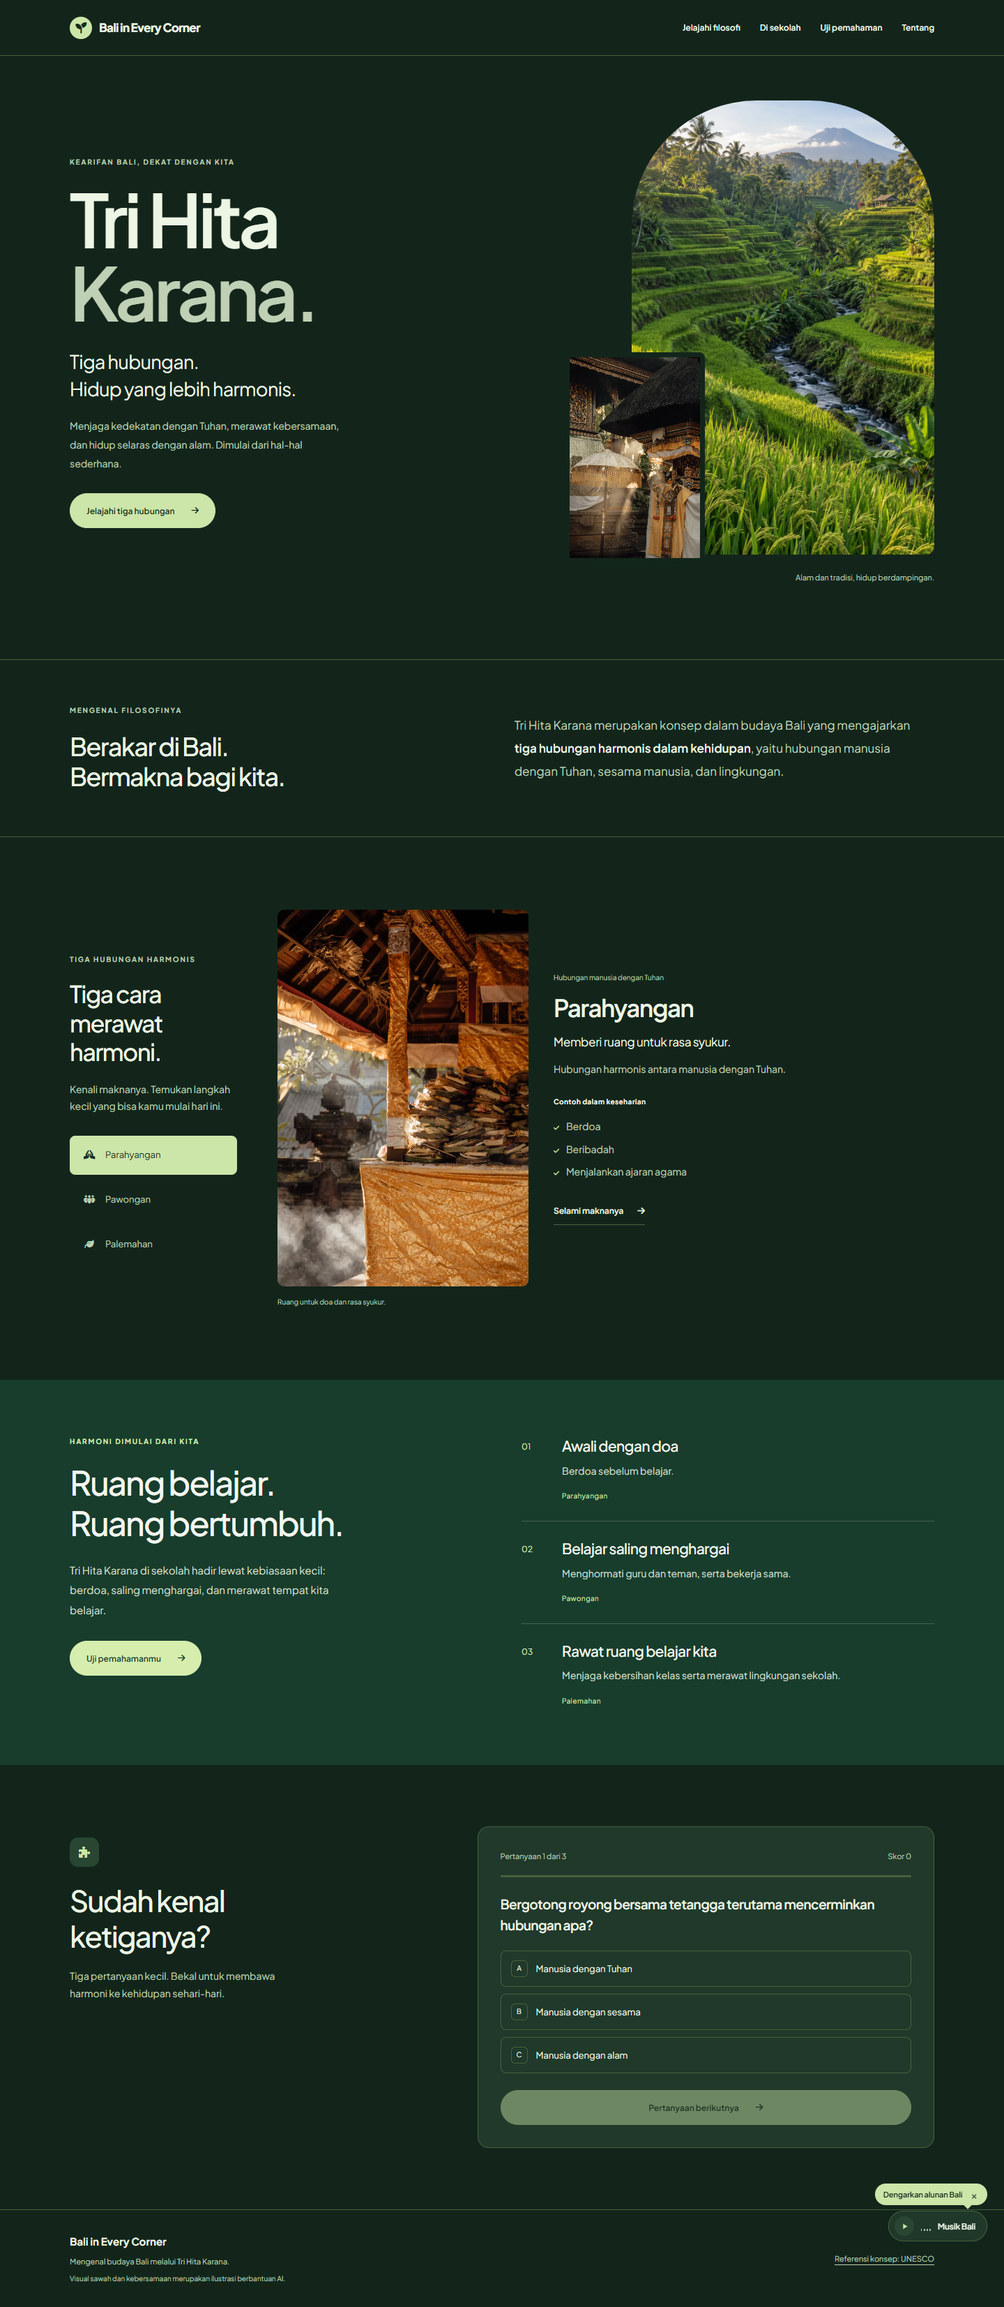
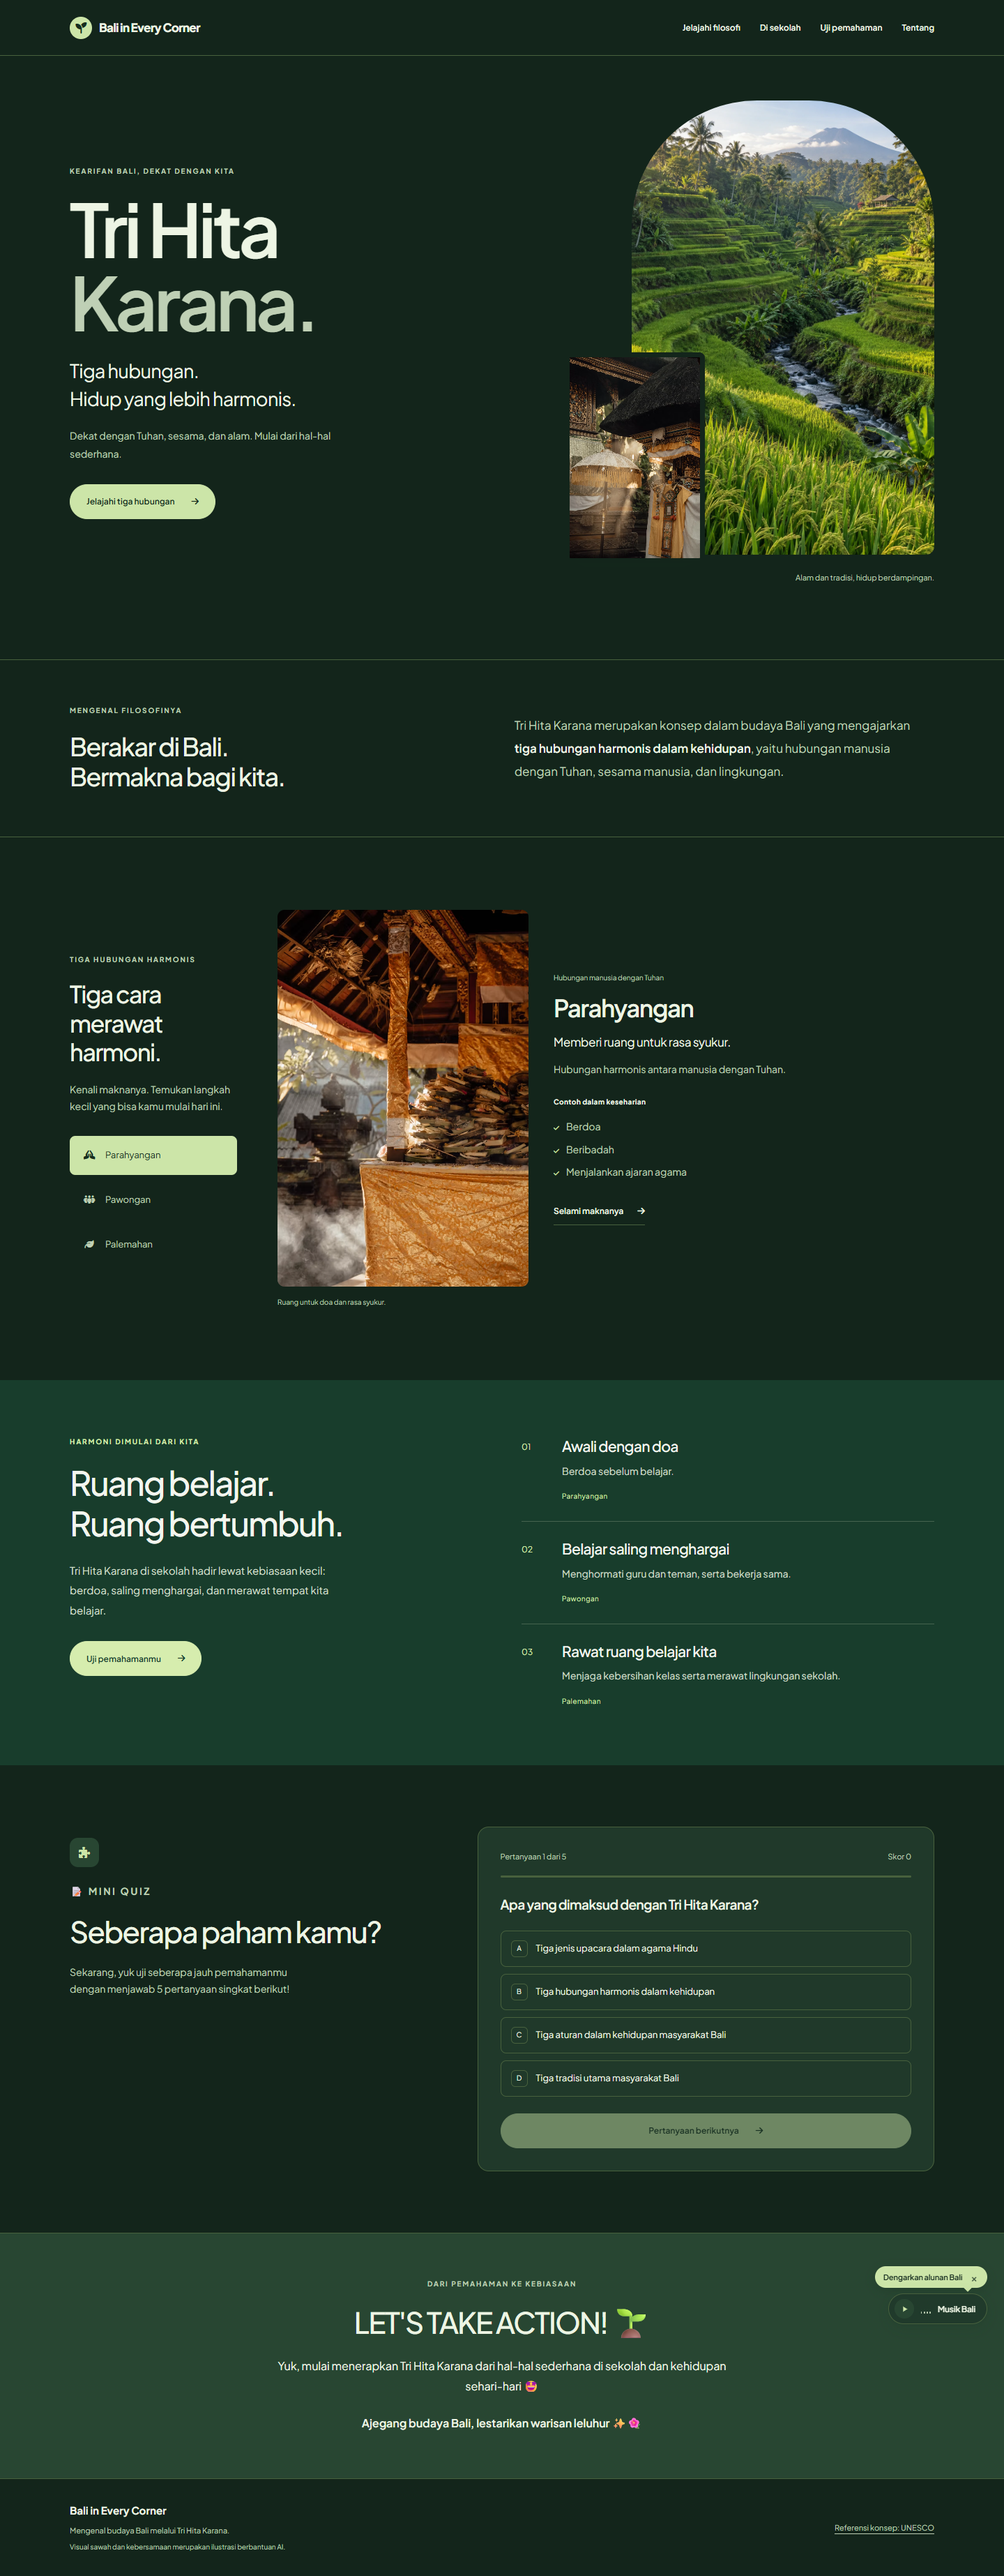
feat: apply editorial mobile design and five-question school quiz

diff --git a/js/app.js b/js/app.js
@@ -9,10 +9,62 @@
    {name:'Palemahan',relation:'Hubungan manusia dengan lingkungan',title:'Palemahan',message:'Merawat alam, merawat kehidupan.',summary:'Hubungan harmonis antara manusia dengan lingkungan.',examples:['Menjaga kebersihan','Membuang sampah pada tempatnya','Merawat tanaman','Menjaga alam'],image:'assets/images/bali-portrait.webp',alt:'Ilustrasi AI sawah berundak dengan aliran air dan pepohonan di Bali',caption:'Alam yang dirawat, kehidupan yang terjaga.',position:'50% 55%',paragraphs:['Palemahan mengajak manusia menjaga hubungan yang harmonis dengan lingkungan. Alam mendukung kehidupan melalui air, pangan, udara, dan ruang untuk tumbuh.','Menghemat sumber daya serta merawat lingkungan dapat dimulai dari rumah. Kebiasaan kecil yang dilakukan bersama membantu menjaga keseimbangan.'],practice:'Bawa botol minum sendiri dan perhatikan satu kebiasaan yang bisa mengurangi pemborosan air hari ini.'}
   ],
   quiz:[
-   {question:'Bergotong royong bersama tetangga terutama mencerminkan hubungan apa?',options:['Manusia dengan Tuhan','Manusia dengan sesama','Manusia dengan alam'],correct:1,explanation:'Kerja sama antarmanusia mencerminkan Pawongan. Jika dilakukan untuk merawat lingkungan, kegiatan yang sama juga mendukung Palemahan.'},
-   {question:'Pilar apa yang menekankan hubungan spiritual manusia dengan Tuhan?',options:['Parahyangan','Pawongan','Palemahan'],correct:0,explanation:'Parahyangan berfokus pada hubungan manusia dengan Tuhan, termasuk melalui doa dan rasa syukur.'},
-   {question:'Kebiasaan mana yang paling langsung mencerminkan Palemahan?',options:['Mendengarkan cerita teman','Menghemat penggunaan air','Meluangkan waktu untuk berdoa'],correct:1,explanation:'Menggunakan air dengan bijak merupakan salah satu cara merawat lingkungan, sesuai nilai Palemahan.'}
-  ]
+  {
+    "question": "Apa yang dimaksud dengan Tri Hita Karana?",
+    "options": [
+      "Tiga jenis upacara dalam agama Hindu",
+      "Tiga hubungan harmonis dalam kehidupan",
+      "Tiga aturan dalam kehidupan masyarakat Bali",
+      "Tiga tradisi utama masyarakat Bali"
+    ],
+    "correct": 1,
+    "explanation": "Tri Hita Karana mengajarkan tiga hubungan harmonis: dengan Tuhan, sesama manusia, dan lingkungan."
+  },
+  {
+    "question": "Sikap menghormati dan membantu teman merupakan contoh penerapan…",
+    "options": [
+      "Parahyangan",
+      "Pawongan",
+      "Palemahan",
+      "Parahyangan dan Palemahan"
+    ],
+    "correct": 1,
+    "explanation": "Menghormati dan membantu teman mencerminkan Pawongan, yaitu hubungan harmonis dengan sesama manusia."
+  },
+  {
+    "question": "Menjaga kebersihan lingkungan sekolah termasuk penerapan…",
+    "options": [
+      "Parahyangan",
+      "Pawongan",
+      "Palemahan",
+      "Semua benar"
+    ],
+    "correct": 2,
+    "explanation": "Menjaga kebersihan lingkungan sekolah mencerminkan Palemahan, yaitu hubungan harmonis dengan lingkungan."
+  },
+  {
+    "question": "Berdoa sebelum memulai pembelajaran merupakan contoh…",
+    "options": [
+      "Parahyangan",
+      "Pawongan",
+      "Palemahan",
+      "Pawongan dan Palemahan"
+    ],
+    "correct": 0,
+    "explanation": "Berdoa sebelum belajar mencerminkan Parahyangan, yaitu hubungan harmonis dengan Tuhan."
+  },
+  {
+    "question": "Manakah tindakan yang paling tepat untuk menerapkan Tri Hita Karana di sekolah?",
+    "options": [
+      "Menjaga kebersihan tetapi tidak peduli dengan teman",
+      "Hanya mengikuti kegiatan keagamaan",
+      "Menghormati sesama, menjaga lingkungan, dan menjalankan kewajiban kepada Tuhan",
+      "Mengikuti kegiatan sekolah hanya untuk mendapatkan nilai"
+    ],
+    "correct": 2,
+    "explanation": "Ketiga hubungan dijalankan bersama: menghormati sesama, merawat lingkungan, dan menjalankan kewajiban kepada Tuhan."
+  }
+]
  };
  const reduced=matchMedia('(prefers-reduced-motion: reduce)');
  const design={motion:'flow',appearance:'auto'};
@@ -36,7 +88,7 @@
  nav.addEventListener('keydown',e=>{if(e.key==='Escape'){nav.classList.remove('g-open');menu.setAttribute('aria-expanded','false');menu.textContent='Menu';menu.focus();}});
  root.querySelectorAll('a[href^="#g-"]').forEach(link=>link.addEventListener('click',e=>{const target=root.querySelector(link.getAttribute('href'));if(!target)return;e.preventDefault();nav.classList.remove('g-open');menu.setAttribute('aria-expanded','false');menu.textContent='Menu';if(!target.hasAttribute('tabindex'))target.tabIndex=-1;target.focus({preventScroll:true});target.scrollIntoView({behavior:reduced.matches||design.motion==='off'?'instant':'smooth',block:'start'});}));
  let step=0,score=0,answered=false;
- function updateProgress(done){find('g-step').textContent=step<data.quiz.length?'Pertanyaan '+(step+1)+' dari '+data.quiz.length:'Kuis selesai';find('g-score').textContent='Skor '+score;find('g-progress').setAttribute('aria-valuenow',done);find('g-progress-fill').style.transform='scaleX('+(done/data.quiz.length)+')';}
+ function updateProgress(done){find('g-step').textContent=step<data.quiz.length?'Pertanyaan '+(step+1)+' dari '+data.quiz.length:'Kuis selesai';find('g-score').textContent='Skor '+score;find('g-progress').setAttribute('aria-valuemax',data.quiz.length);find('g-progress').setAttribute('aria-valuenow',done);find('g-progress-fill').style.transform='scaleX('+(done/data.quiz.length)+')';}
  function renderQuestion(withMotion=false){answered=false;const q=data.quiz[step];updateProgress(step);const body=find('g-question-body');body.replaceChildren();const heading=element('h3','g-question',q.question),answers=element('div','g-answers'),feedback=element('p','g-feedback');feedback.hidden=true;feedback.setAttribute('role','status');feedback.setAttribute('aria-live','polite');const next=element('button','g-action g-next',step===data.quiz.length-1?'Lihat hasil':'Pertanyaan berikutnya');next.type='button';next.disabled=true;next.append(icon('arrow-right'));q.options.forEach((text,i)=>{const b=element('button','g-answer');b.type='button';b.append(element('span','g-answer-letter',String.fromCharCode(65+i)),element('span','',text));b.addEventListener('click',()=>{if(answered)return;answered=true;const correct=i===q.correct;if(correct)score++;Array.from(answers.children).forEach((option,index)=>{option.disabled=true;if(index===q.correct){option.dataset.state='correct';option.append(element('span','g-answer-status','✓ Benar'));}else if(index===i){option.dataset.state='wrong';option.append(element('span','g-answer-status','Pilihanmu'));}});feedback.hidden=false;feedback.textContent=(correct?'Tepat! ':'Belum tepat. ')+q.explanation;animate(feedback,[{opacity:0,transform:'translateY(8px)'},{opacity:1,transform:'translateY(0)'}],450);animate(b,[{transform:'scale(.985)'},{transform:'scale(1)'}],350);next.disabled=false;updateProgress(step+1);next.focus({preventScroll:true});});answers.append(b);});next.addEventListener('click',()=>{step++;if(step===data.quiz.length)renderResult();else renderQuestion(true);find('g-question-body').querySelector('button').focus({preventScroll:true});});body.append(heading,answers,feedback,next);if(withMotion)animate(body,[{opacity:0,transform:'translateX(18px)'},{opacity:1,transform:'translateX(0)'}],500);}
  function renderResult(){updateProgress(data.quiz.length);const body=find('g-question-body');body.replaceChildren();body.append(element('h3','g-question',score===data.quiz.length?'Kamu sudah mengenal ketiganya.':'Terus jelajahi, terus belajar.'),element('p','g-result-number',score+' / '+data.quiz.length),element('p','g-detail-copy','Jawaban benar. Pilih satu kebiasaan baik dan bawa ke harimu.'));const retry=element('button','g-action g-next','Ulangi kuis');retry.type='button';retry.append(icon('rotate-right'));retry.addEventListener('click',()=>{step=0;score=0;renderQuestion(true);find('g-question-body').querySelector('button').focus({preventScroll:true});});body.append(retry);animate(body,[{opacity:0,transform:'translateY(15px)'},{opacity:1,transform:'translateY(0)'}],700);}
  renderQuestion();

diff --git a/css/mobile.css b/css/mobile.css
@@ -1,0 +1,67 @@
+/* Approved editorial mobile layout. */
+@media (max-width: 700px) {
+  #thk-green { overflow: visible; --g-bg:light-dark(#f5f1e8,#17261f); --g-card:light-dark(#fffcf5,#20392a); --g-soft:light-dark(#e8e6d9,#284632); --g-muted:light-dark(#626759,#bfd0b5); --g-line:light-dark(#d9d8c9,#48613d); }
+  #thk-green .g-wrap { padding-inline: 22px; }
+  #thk-green .g-nav { min-height: 76px; gap: 0; border:0; }
+  #thk-green .g-brand { font-size: 14px; letter-spacing: -.5px; }
+  #thk-green .g-brand-mark { width: 30px; height: 30px; }
+  #thk-green .g-menu-toggle { min-height: 48px; font-size: 12px; background:transparent; border:0; border-radius:0; padding-right:0; }
+  #thk-green .g-navlinks.g-open { display: grid; grid-template-columns: 1fr; }
+  #thk-green .g-navlinks a { font-size: 16px; min-height: 48px; }
+  #thk-green .g-hero { position:relative; padding:40px 26px 28px; background:#172c23; color:#fff9e9; isolation:isolate; }
+  #thk-green .g-hero-layout { display:block; }
+  #thk-green .g-hero-heading { position:relative; z-index:1; min-height:590px; display:flex; flex-direction:column; align-items:flex-start; }
+  #thk-green .g-kicker { font-size: 11px; letter-spacing: .12em; margin-bottom: 14px; }
+  #thk-green h1 { font-family:Georgia,'Times New Roman',serif; font-size:clamp(64px,19vw,86px); font-weight:400; line-height:.93; letter-spacing:-.055em; text-shadow:0 2px 24px #0003; margin-top:18px; }
+  #thk-green h1 span { color:#e4d7b3; font-style:italic; }
+  #thk-green .g-hero .g-kicker { color:#eee3c7; font-size:10px; letter-spacing:.18em; }
+  #thk-green .g-hero-subtitle { margin-top:24px; font-size:17px; line-height:1.6; color:#fff9e9; }
+  #thk-green .g-hero-description { font-size:14px; line-height:1.75; margin-block:auto 22px; padding-top:110px; max-width:30ch; color:#f0ead9; }
+  #thk-green .g-action { min-height:54px; width:100%; padding:14px 18px; justify-content:space-between; font-size:13px; border-radius:3px; }
+  #thk-green .g-hero .g-action { background:#f1e8d2; border-color:#f1e8d2; color:#213c2c; }
+  #thk-green .g-hero .g-action i { border-left:1px solid #a9b29c; padding-left:20px; }
+  #thk-green .g-hero-visual { position:absolute; inset:0; padding:0; max-width:none; z-index:-1; }
+  #thk-green .g-hero-visual::after { content:''; position:absolute; inset:0; background:linear-gradient(180deg,#12291ee6 0%,#12291e80 35%,#12291e15 54%,#12291ee6 86%,#12291efa 100%); }
+  #thk-green .g-landscape { aspect-ratio:auto; height:100%; border-radius:0; }
+  #thk-green .g-landscape img { object-position:50% 48%; animation:none; }
+  #thk-green .g-hero-detail { display: none; }
+  #thk-green .g-photo-note { display:none; }
+  #thk-green .g-intro { padding-block:48px; gap:22px; border-top:0; }
+  #thk-green .g-intro > p { font-size: 16px; line-height: 1.75; }
+  #thk-green h2, #thk-green .g-intro h2, #thk-green .g-explore h2, #thk-green .g-school h2 { font-family:Georgia,'Times New Roman',serif; font-weight:400; font-size:38px; line-height:1.12; letter-spacing:-.04em; }
+  #thk-green .g-explore { display: block; padding-block: 40px; }
+  #thk-green .g-section-copy { font-size: 16px; margin-top: 16px; }
+  #thk-green .g-tabs { display:grid; grid-template-columns:repeat(3,minmax(0,1fr)); gap:0; margin-block:26px; padding-bottom:0; border-bottom:1px solid var(--g-line); }
+  #thk-green .g-tab { border:0; border-bottom:2px solid transparent; padding:12px 2px; justify-content:center; font-size:12px; min-height:52px; border-radius:0; letter-spacing:-.4px; }
+  #thk-green .g-tab[aria-selected=true] { background:transparent; color:var(--g-text); border-bottom:2px solid var(--g-primary); font-weight:700; }
+  #thk-green .g-panel { display: flex; flex-direction: column; gap: 22px; align-items: stretch; }
+  #thk-green .g-panel-photo { max-width: none; }
+  #thk-green .g-panel-photo img { height:250px; aspect-ratio:auto; border-radius:3px; }
+  #thk-green .g-panel-photo figcaption { margin-top: 8px; font-size: 12px; }
+  #thk-green .g-panel h3 { font:400 36px/1.15 Georgia,'Times New Roman',serif; }
+  #thk-green .g-relation { font-size: 12px; margin-bottom: 10px; }
+  #thk-green .g-panel-message { font-size: 20px; }
+  #thk-green .g-panel-summary, #thk-green .g-example { font-size: 16px; }
+  #thk-green .g-example-label { font-size: 12px; }
+  #thk-green .g-read { min-height: 48px; font-size: 14px; width: 100%; justify-content: space-between; }
+  #thk-green .g-school, #thk-green .g-quiz { padding-block:48px; gap:32px; }
+  #thk-green .g-school-number { font:italic 28px/1.3 Georgia,serif; color:#dccda5; }
+  #thk-green .g-school .g-kicker, #thk-green .g-school-pillar { color:#e0d4b5; }
+  #thk-green .g-school .g-action { background:#e9dec1; border-color:#e9dec1; }
+  #thk-green .g-school-intro > p:not(.g-kicker), #thk-green .g-school-list p, #thk-green .g-quiz-intro p { font-size: 16px; line-height: 1.7; }
+  #thk-green .g-school-pillar { font-size: 12px; }
+  #thk-green .g-quiz-box { padding:24px 16px; border-radius:3px; border-top:3px solid var(--g-primary); }
+  #thk-green .g-quiz-icon { background:transparent; border:1px solid var(--g-line); border-radius:50%; }
+  #thk-green .g-quiz-meta { font-size: 12px; }
+  #thk-green .g-answer { min-height:56px; font-size:15px; border-radius:3px; }
+  #thk-green .g-feedback, #thk-green .g-detail-copy { font-size: 16px; }
+  #thk-green .g-footer { font-size: 13px; padding-bottom: 28px; }
+  #thk-green .g-footer small { font-size: 12px; }
+  #thk-green .g-audio-dock { position: static; padding: 0 22px 28px; align-items: flex-start; }
+  #thk-green .g-audio-bubble { display: none; }
+  #thk-green .g-audio-btn { height: 48px; box-shadow: none; }
+  #thk-green .g-audio-label { font-size: 14px; }
+  #thk-green dialog { margin: auto auto 0; width: 100%; max-width: 700px; max-height: 85dvh; padding: 24px; border-radius: 24px 24px 0 0; }
+}
+
+

diff --git a/index.html b/index.html
@@ -7,7 +7,7 @@
   <meta name="description" content="Kenali Tri Hita Karana: hubungan harmonis dengan Tuhan, sesama manusia, dan lingkungan, serta contoh penerapannya di sekolah.">
   <link rel="stylesheet" href="css/fonts.css">
   <link rel="stylesheet" href="css/style.css">
-</head>
+<link rel="stylesheet" href="css/mobile.css"></head>
 <body>
 
 <div id="thk-green" aria-label="Tri Hita Karana, eksplorasi interaktif">
@@ -30,7 +30,7 @@
         <p class="g-kicker">KEARIFAN BALI, DEKAT DENGAN KITA</p>
         <h1 id="g-title">Tri Hita<br><span>Karana.</span></h1>
         <p class="g-hero-subtitle">Tiga hubungan.<br>Hidup yang lebih harmonis.</p>
-        <p class="g-hero-description">Menjaga kedekatan dengan Tuhan, merawat kebersamaan, dan hidup selaras dengan alam. Dimulai dari hal-hal sederhana.</p>
+        <p class="g-hero-description">Dekat dengan Tuhan, sesama, dan alam. Mulai dari hal-hal sederhana.</p>
         <a class="g-action" href="#g-explore">Jelajahi tiga hubungan <i class="fa-solid fa-arrow-right" aria-hidden="true"></i></a>
       </div>
       <div class="g-hero-visual">
@@ -98,19 +98,25 @@
   <section class="g-quiz g-wrap g-reveal" id="g-quiz" aria-labelledby="g-quiz-title">
     <div class="g-quiz-intro">
       <div class="g-quiz-icon"><i class="fa-solid fa-puzzle-piece" aria-hidden="true"></i></div>
-      <h2 id="g-quiz-title">Sudah kenal<br>ketiganya?</h2>
-      <p>Tiga pertanyaan kecil. Bekal untuk membawa harmoni ke kehidupan sehari-hari.</p>
+      <p class="g-kicker">📝 MINI QUIZ</p><h2 id="g-quiz-title">Seberapa paham kamu?</h2>
+      <p>Sekarang, yuk uji seberapa jauh pemahamanmu dengan menjawab 5 pertanyaan singkat berikut!</p>
     </div>
     <div class="g-quiz-box">
       <div class="g-quiz-meta">
-        <span id="g-step">Pertanyaan 1 dari 3</span>
+        <span id="g-step">Pertanyaan 1 dari 5</span>
         <span id="g-score">Skor 0</span>
       </div>
-      <div class="g-track" role="progressbar" aria-label="Soal dijawab" aria-valuemin="0" aria-valuemax="3" aria-valuenow="0" id="g-progress">
+      <div class="g-track" role="progressbar" aria-label="Soal dijawab" aria-valuemin="0" aria-valuemax="5" aria-valuenow="0" id="g-progress">
         <div class="g-track-fill" id="g-progress-fill"></div>
       </div>
       <div id="g-question-body"></div>
     </div>
+  </section>
+  <section class="g-take-action g-wrap" aria-labelledby="g-action-title">
+    <p class="g-kicker">DARI PEMAHAMAN KE KEBIASAAN</p>
+    <h2 id="g-action-title">LET'S TAKE ACTION! 🌱</h2>
+    <p>Yuk, mulai menerapkan Tri Hita Karana dari hal-hal sederhana di sekolah dan kehidupan sehari-hari 🤩</p>
+    <p class="g-action-closing">Ajegang budaya Bali, lestarikan warisan leluhur ✨🌺</p>
   </section>
  </main>
 
@@ -163,3 +169,6 @@
   <script src="js/app.js"></script>
 </body>
 </html>
+
+
+

diff --git a/css/style.css b/css/style.css
@@ -140,6 +140,11 @@ body { margin: 0; background: light-dark(#f6f7f0, #13251b); }
 #thk-green .g-footer small { margin-top: 6px; font-size: 10px; }
 #thk-green .g-footer a { text-decoration: underline; text-underline-offset: 4px; }
 
+#thk-green .g-take-action { padding-block: 64px; border-top: 1px solid var(--g-line); text-align: center; background: var(--g-soft); }
+#thk-green .g-take-action > p:not(.g-kicker) { max-width: 58ch; margin: 24px auto 0; font-size: 16px; line-height: 1.8; }
+#thk-green .g-take-action .g-action-closing { font-weight: 600; }
+#thk-green .g-answer > span:nth-child(2) { flex: 1; min-width: 0; }
+
 /* Ambient Balinese Music Dock */
 #thk-green .g-audio-dock {
   position: fixed;

diff --git a/STATUS.md b/STATUS.md
@@ -94,3 +94,10 @@
 - Preserved first concept in mobile-concept-v1.html and css/mobile-concept-v1.css; review now compares revision 2 against revision 1.
 - Verified no overflow at 320/360/390/430px; no asset or script errors; tabs, dialog/Escape, quiz feedback and comparison work. Hero and pillar screenshots visually inspected.
 - Production page remains unchanged; awaiting review of revised aesthetics. Preview remains /mobile-review.html.
+
+## 2026-09-24: Approved mobile design and five-question quiz
+- Applied approved editorial concept to index.html using css/mobile.css (mobile breakpoint <=700px); desktop layout retained.
+- Replaced quiz with the user's five questions and all four options in exact order. Answer key: B, B, C, A, C. Progress maximum derives from question count; score, feedback and retry support all five.
+- Added requested MINI QUIZ introduction and LET'S TAKE ACTION closing message, including Ajegang budaya Bali text.
+- Updated scripts/verify.cjs for five questions and four options. Full browser checks passed for keyboard, dialogs, quiz, menu, light/dark, 320–1440px, reveals and reduced motion. Additional full quiz checks passed at 320/360/390/430px, including progress, retry and long-option overflow. Quiz/closing screenshots visually inspected.
+- User explicitly approved implementation and push to GitHub main; release commit follows this entry.
